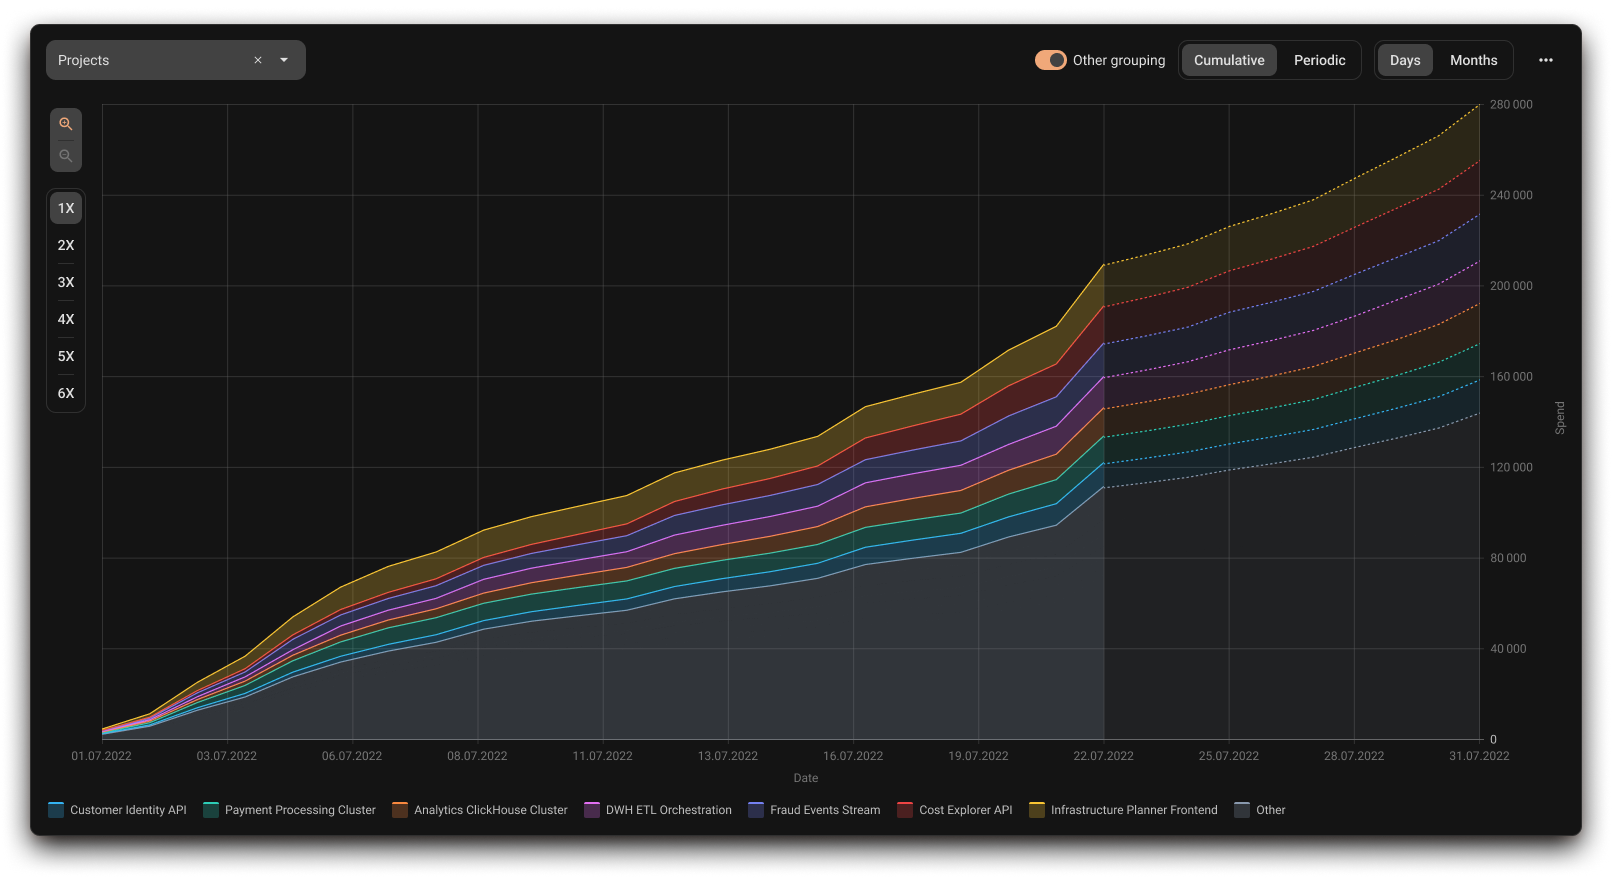
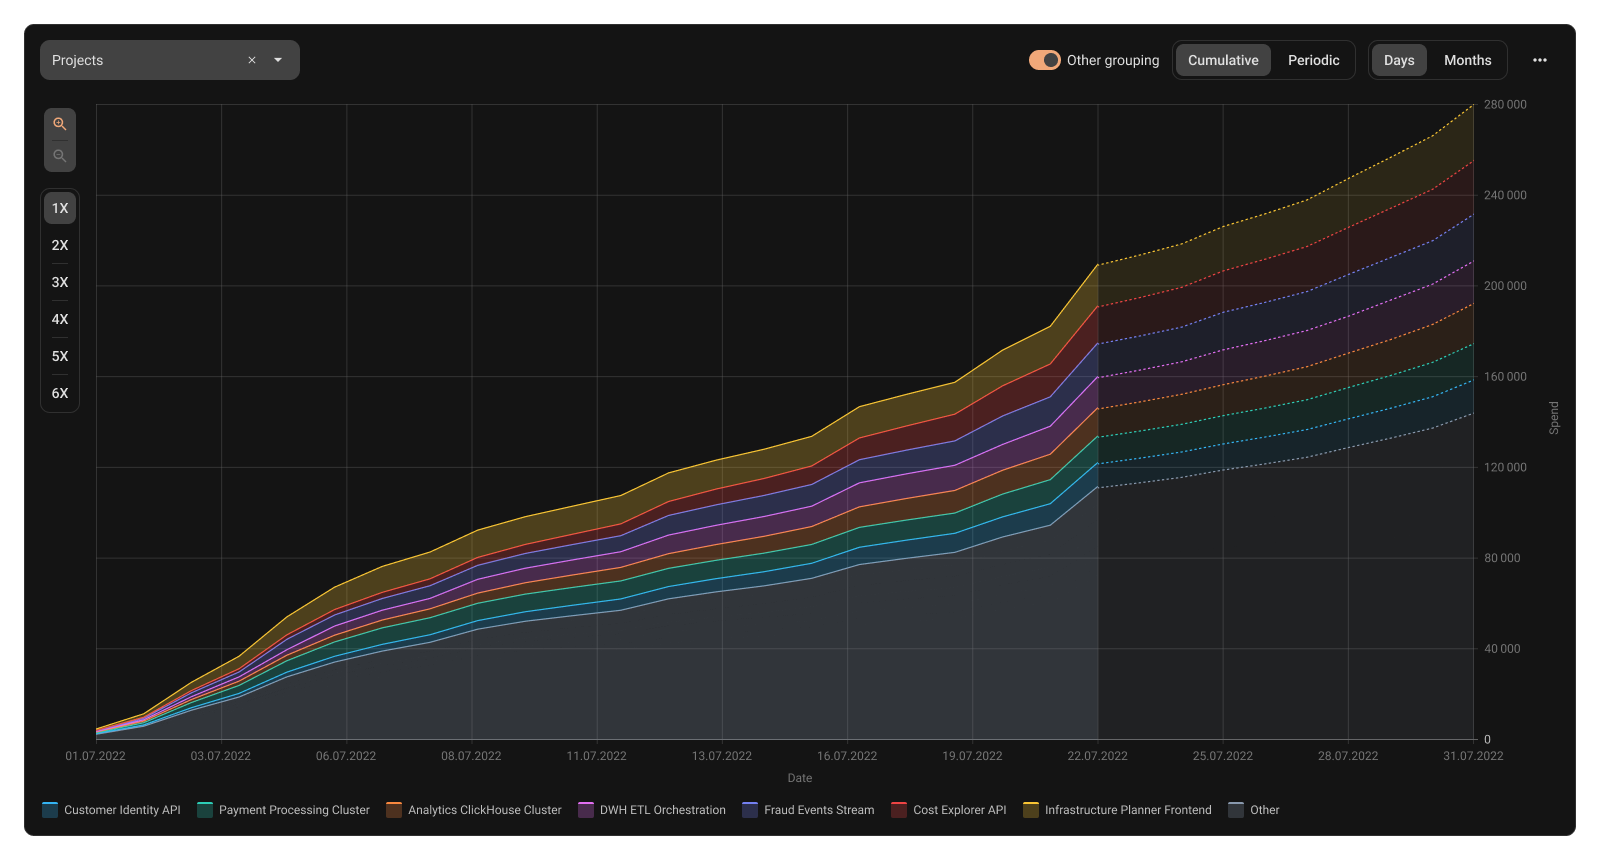
Добавляет актуальный кейс

diff --git a/.eleventy.js b/.eleventy.js
@@ -58,19 +58,6 @@ function loadI18nConfig() {
 
 const i18nConfig = loadI18nConfig();
 
-function collectCaseImageDirs(baseDir) {
-	const absoluteBaseDir = path.join(__dirname, baseDir);
-
-	if (!fs.existsSync(absoluteBaseDir)) {
-		return [];
-	}
-
-	return fs.readdirSync(absoluteBaseDir, { withFileTypes: true })
-		.filter((entry) => entry.isDirectory())
-		.map((entry) => `${baseDir}/${entry.name}/img`)
-		.filter((imgDir) => fs.existsSync(path.join(__dirname, imgDir)));
-}
-
 function isSkippableLink(href) {
 	if (typeof href !== 'string' || href.trim() === '') {
 		return true;
@@ -423,14 +410,11 @@ module.exports = function (config) {
 
 	// Passthrough copy
 
-	const portfolioImageDirs = collectCaseImageDirs('src/portfolio');
-	const publicationsImageDirs = collectCaseImageDirs('src/publications');
-
 	[
 		'src/fonts',
 		'src/img',
-		...portfolioImageDirs,
-		...publicationsImageDirs,
+		'src/portfolio/*/img/**/*',
+		'src/publications/*/img/**/*',
 		'src/files'
 	].forEach(
 		path => config.addPassthroughCopy(path)

diff --git a/src/css/blocks/content-table.css b/src/css/blocks/content-table.css
@@ -1,12 +1,6 @@
-/* Variables */
-
-.content-table {
-	--content-table-gap: var(--space-gap-s);
-}
 
 /* Content table */
 
 .content-table {
 	display: grid;
-	gap: var(--content-table-gap);
 }
